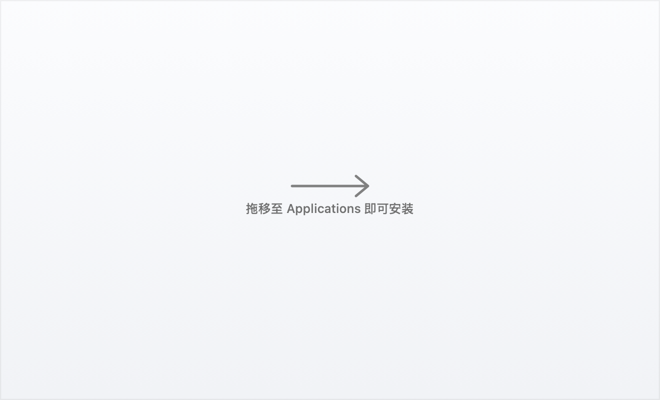
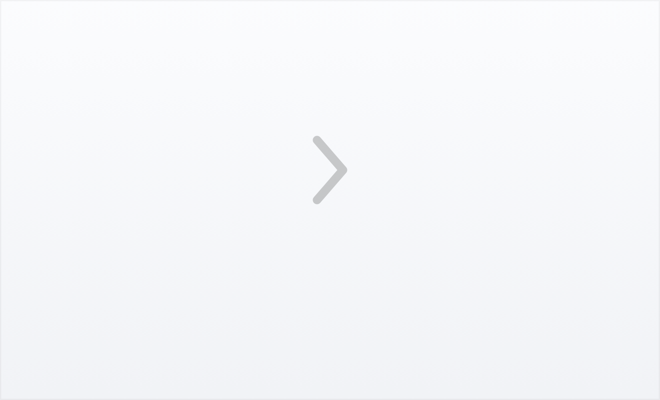
fix(dmg): use appdmg directly to inject bold arrow background and eliminate blank background bug

Changed region(s): [[0.3636, 0.36, 0.6364, 0.54], [0.4545, 0.33, 0.4848, 0.36]]

diff --git a/Scripts/make-dmg-background.swift b/Scripts/make-dmg-background.swift
@@ -28,55 +28,73 @@ cg.scaleBy(x: scale, y: scale)
 
 let bounds = CGRect(x: 0, y: 0, width: width, height: height)
 
-// 1. 基础优雅中性浅灰白渐变（自然契合 macOS Finder）
+// 1. 纯净极简中性浅灰底色（与 macOS 浅色 Finder 完全融为一体）
 let bgGradient = NSGradient(
     starting: NSColor(red: 0.985, green: 0.988, blue: 0.995, alpha: 1.0),
     ending: NSColor(red: 0.945, green: 0.952, blue: 0.965, alpha: 1.0)
 )!
 bgGradient.draw(in: bounds, angle: -90)
 
-// 2. 边缘 1px 极微弱内描边（增加通透精致感）
-NSColor(white: 0.0, alpha: 0.05).setStroke()
+// 2. 边缘 1px 极微弱内描边
+NSColor(white: 0.0, alpha: 0.04).setStroke()
 let borderPath = NSBezierPath(rect: bounds.insetBy(dx: 0.5, dy: 0.5))
 borderPath.lineWidth = 1.0
 borderPath.stroke()
 
-// 3. 左右留白区（App 中心 180, 210；Applications 中心 480, 210）
+// 3. 绘制简洁、粗粗的「>」指示箭头（Lungo 经典风格）
+// 图标中心在 X: 180 与 480，正中为 X: 330
+// appdmg 内容区高度 400，从上往下 Y: 170 相当于从下往上 Y: 230
 let midX: CGFloat = 330
-let midY: CGFloat = 210
+let midY: CGFloat = 230
 
-// 4. 中间现代圆润向右指示箭头
 let arrowPath = NSBezierPath()
-let arrowLen: CGFloat = 76
-let startX = midX - arrowLen / 2
-let endX = midX + arrowLen / 2
+let halfH: CGFloat = 30  // 箭头垂直跨度
+let spanW: CGFloat = 26  // 箭头水平跨度
 
-arrowPath.move(to: CGPoint(x: startX, y: midY + 4))
-arrowPath.line(to: CGPoint(x: endX, y: midY + 4))
-arrowPath.line(to: CGPoint(x: endX - 12, y: midY + 14))
-arrowPath.move(to: CGPoint(x: endX, y: midY + 4))
-arrowPath.line(to: CGPoint(x: endX - 12, y: midY - 6))
+// 经典的粗圆角向右大于号 >
+arrowPath.move(to: CGPoint(x: midX - spanW / 2, y: midY + halfH))
+arrowPath.line(to: CGPoint(x: midX + spanW / 2, y: midY))
+arrowPath.line(to: CGPoint(x: midX - spanW / 2, y: midY - halfH))
 
-NSColor(white: 0.42, alpha: 0.85).setStroke()
-arrowPath.lineWidth = 2.5
+// 饱满粗细 + 圆角
+arrowPath.lineWidth = 8.5
 arrowPath.lineCapStyle = .round
 arrowPath.lineJoinStyle = .round
-arrowPath.stroke()
 
-// 5. 提示说明小字（居中在箭头下方）
-let text = "拖移至 Applications 即可安装" as NSString
-let font = NSFont.systemFont(ofSize: 12.5, weight: .medium)
-let attrs: [NSAttributedString.Key: Any] = [
-    .font: font,
-    .foregroundColor: NSColor(white: 0.35, alpha: 0.85)
-]
-let textSize = text.size(withAttributes: attrs)
-text.draw(at: CGPoint(x: midX - textSize.width / 2, y: midY - 26), withAttributes: attrs)
+// 通透中性灰（质感高级且不突兀）
+NSColor(white: 0.20, alpha: 0.25).setStroke()
+arrowPath.stroke()
 
 NSGraphicsContext.restoreGraphicsState()
 
-// 导出 PNG
-let outputURL = URL(fileURLWithPath: "Design/dmg-background@2x.png")
+// 导出 2x 高清图与 1x 标清图
+let output2x = URL(fileURLWithPath: "Design/dmg-background@2x.png")
 let pngData = rep.representation(using: .png, properties: [:])!
-try! pngData.write(to: outputURL)
-print("✓ 已生成背景图: \(outputURL.path)")
+try! pngData.write(to: output2x)
+print("✓ 已生成高清背景图: \(output2x.path)")
+
+// 生成 1x 图
+let rep1x = NSBitmapImageRep(
+    bitmapDataPlanes: nil,
+    pixelsWide: Int(width),
+    pixelsHigh: Int(height),
+    bitsPerSample: 8,
+    samplesPerPixel: 4,
+    hasAlpha: true,
+    isPlanar: false,
+    colorSpaceName: .deviceRGB,
+    bytesPerRow: 0,
+    bitsPerPixel: 0
+)!
+
+NSGraphicsContext.saveGraphicsState()
+let ctx1x = NSGraphicsContext(bitmapImageRep: rep1x)!
+NSGraphicsContext.current = ctx1x
+let img = NSImage(data: pngData)!
+img.draw(in: CGRect(x: 0, y: 0, width: width, height: height))
+NSGraphicsContext.restoreGraphicsState()
+
+let output1x = URL(fileURLWithPath: "Design/dmg-background.png")
+let data1x = rep1x.representation(using: .png, properties: [:])!
+try! data1x.write(to: output1x)
+print("✓ 已生成标清背景图: \(output1x.path)")
